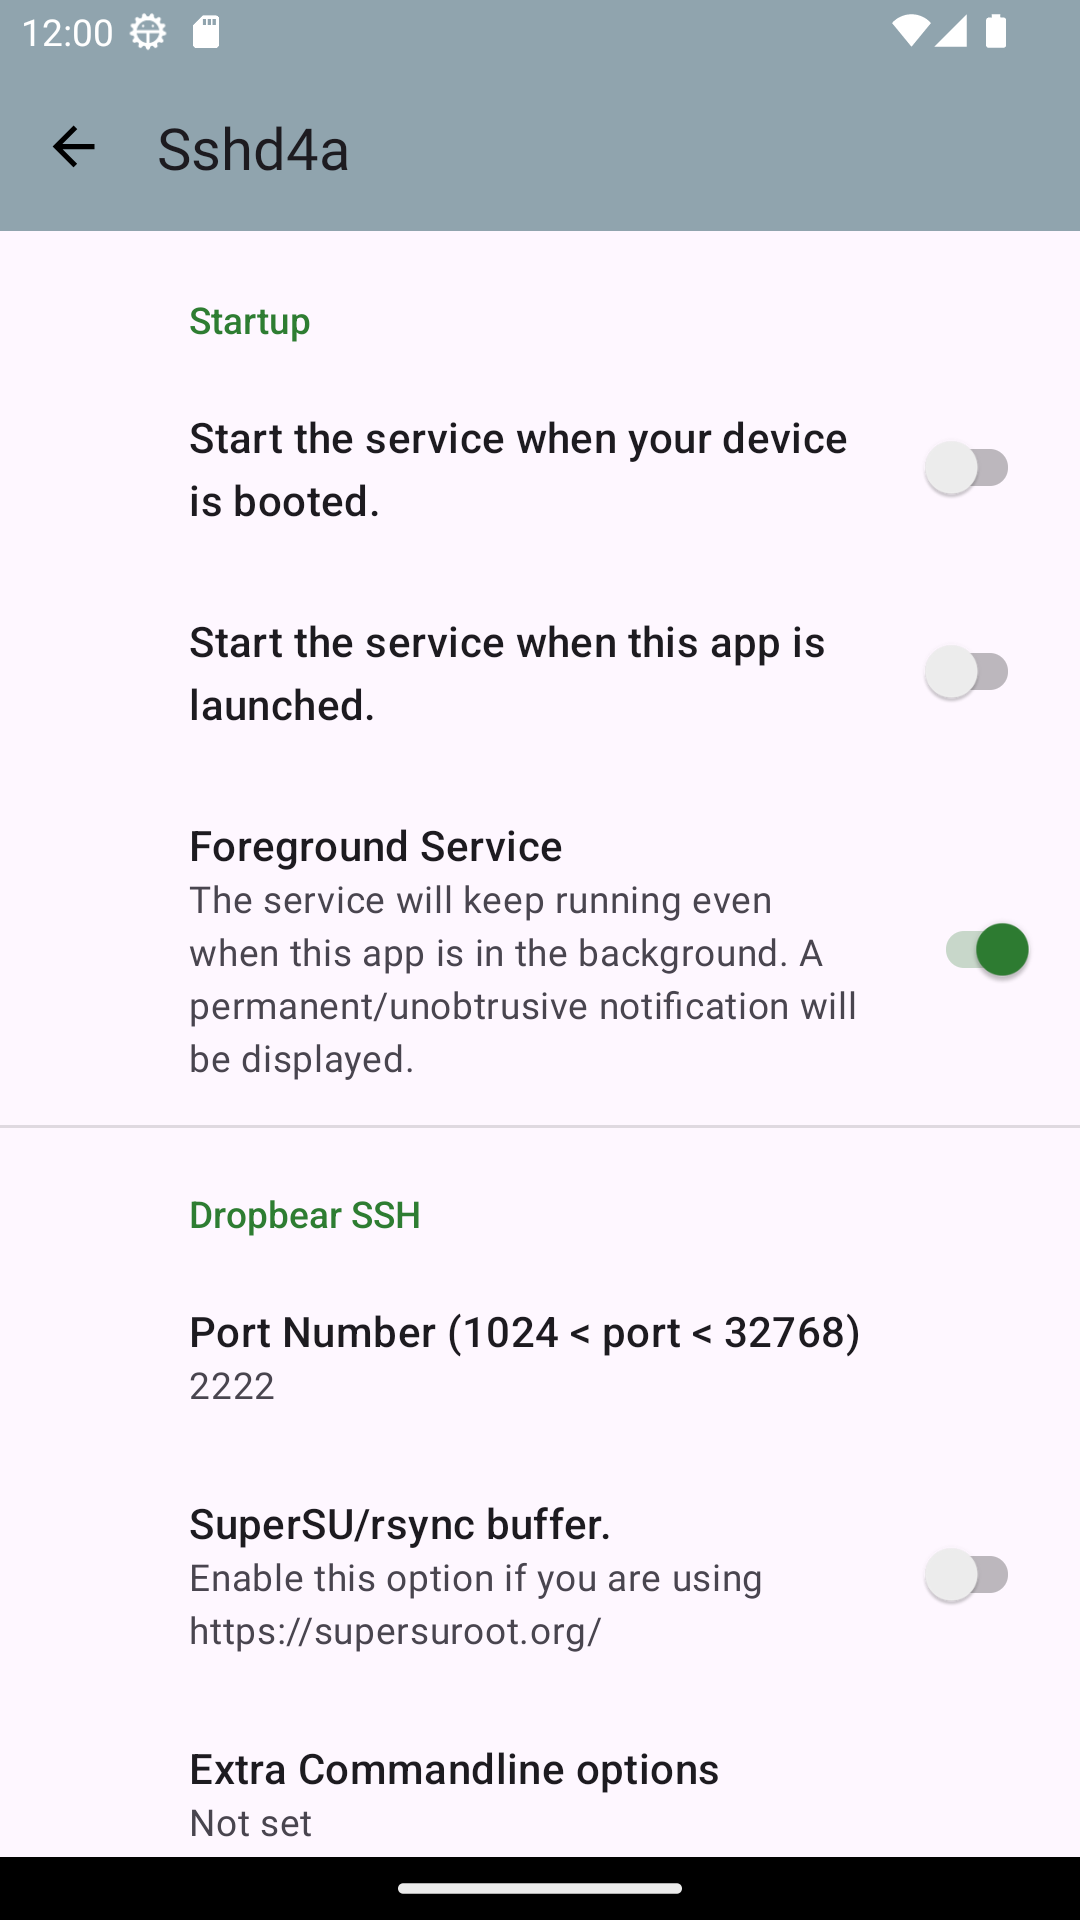
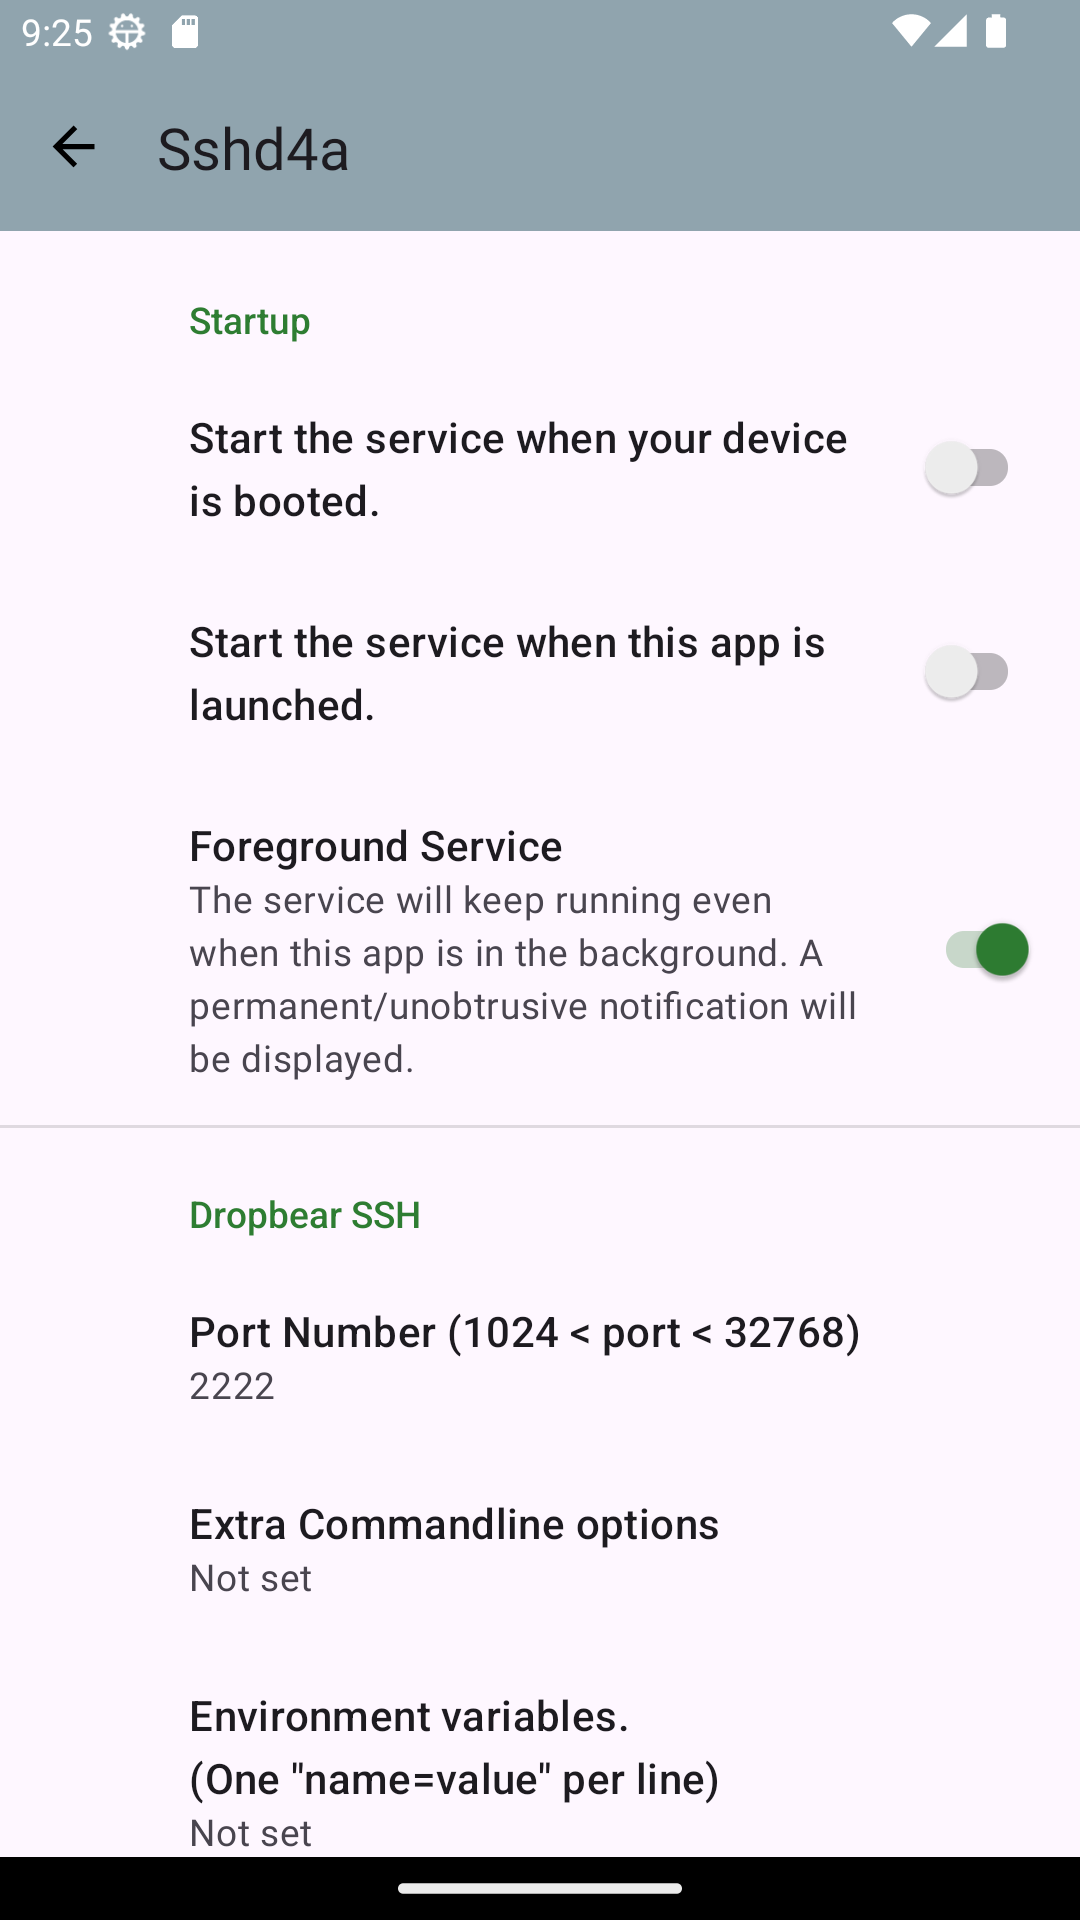
removed supersu support due to lack of a testing setup

Changed region(s): [[0.1833, 0.7812, 0.7028, 0.9688], [0.0306, 0.0, 0.2139, 0.0312], [0.8861, 0.8125, 0.9472, 0.8438]]

diff --git a/app/src/main/cpp/jni-dropbear.c b/app/src/main/cpp/jni-dropbear.c
@@ -33,9 +33,6 @@ const char *env_var_list = "";
 int enable_public_key_auth = JNI_TRUE;
 int enable_single_use_passwords = JNI_TRUE;
 
-/* enable the "buffersu" helper when the user has SuperSu installed. */
-int enable_super_su_buffering = JNI_FALSE;
-
 /*
  * Check if the given file exists and contains at least 'min_chars' characters.
  */
@@ -71,14 +68,8 @@ char *sshd4a_exe_to_lib(const char *cmd) {
         return t;
 
     } else if (cmd && !strncmp(cmd, "rsync ", 6)) {
-        char *t;
-        if (enable_super_su_buffering) {
-            t = m_malloc(strlen(lib_path) + 16 + strlen(cmd) - 6 + /* '\0' */ 1);
-            sprintf(t, "%s/libbuffersu.so %s", lib_path, cmd + 6);
-        } else {
-            t = m_malloc(strlen(lib_path) + 13 + strlen(cmd) - 6 + /* '\0' */ 1);
-            sprintf(t, "%s/librsync.so %s", lib_path, cmd + 6);
-        }
+        char *t = m_malloc(strlen(lib_path) + 13 + strlen(cmd) - 6 + /* '\0' */ 1);
+        sprintf(t, "%s/librsync.so %s", lib_path, cmd + 6);
         return t;
 
     } else if (cmd && !strncmp(cmd, "sftp-server", 11)) {
@@ -133,8 +124,6 @@ void sshd4a_set_env() {
         }
     }
 
-    /* make available to buffersu. */
-    setenv(SSHD4A_LIB_DIR, lib_path, /*overwrite=*/ 1);
     /* make available to rsync */
     setenv(SSHD4A_CONF_DIR, conf_path, /*overwrite=*/ 1);
 }
@@ -247,7 +236,6 @@ const char *from_java_string(JNIEnv *env, jstring str) {
  * @param j_env_var_list             list of environment variables
  * @param j_enablePublickeyAuth      enable public key logins
  * @param j_enableSingleUsePasswords enable generating single-use passwords
- * @param j_enableSuperSuBuffering   enable support for "SuperSu" rsync buffering
  *
  * @return On success, the PID of the dropbear process.  On failure, -1.
  */
@@ -262,8 +250,7 @@ Java_com_hardbacknutter_sshd_SshdService_start_1sshd(
         jstring j_shell_exe,
         jstring j_env_var_list,
         jboolean j_enablePublickeyAuth,
-        jboolean j_enableSingleUsePasswords,
-        jboolean j_enableSuperSuBuffering) {
+        jboolean j_enableSingleUsePasswords) {
 
     pid_t pid = fork();
     if (pid == 0) {
@@ -279,7 +266,6 @@ Java_com_hardbacknutter_sshd_SshdService_start_1sshd(
 
         enable_public_key_auth = j_enablePublickeyAuth;
         enable_single_use_passwords = j_enableSingleUsePasswords;
-        enable_super_su_buffering = j_enableSuperSuBuffering;
 
         const jsize argc = (*env)->GetArrayLength(env, j_dropbear_args);
         const char *argv[argc];

diff --git a/app/src/main/java/com/hardbacknutter/sshd/SshdService.java b/app/src/main/java/com/hardbacknutter/sshd/SshdService.java
@@ -211,8 +211,7 @@ public class SshdService
                                   @NonNull String shell,
                                   @NonNull String env,
                                   boolean enablePublickeyAuth,
-                                  boolean enableSingleUsePasswords,
-                                  boolean enableSuperSuBuffering);
+                                  boolean enableSingleUsePasswords);
 
     private native void kill(int pid);
 
@@ -278,14 +277,11 @@ public class SshdService
                 pref.getBoolean(Prefs.ENABLE_PUBLIC_KEY_LOGIN, true);
         final boolean enableSingleUsePasswords =
                 pref.getBoolean(Prefs.ENABLE_SINGLE_USE_PASSWORDS, true);
-        final boolean enableSuperSuBuffering =
-                pref.getBoolean(Prefs.ENABLE_SUPER_SU_BUFFERING, false);
 
         final int pid = start_sshd(getApplicationInfo().nativeLibraryDir,
                                    args, confPath, homePath, shellCmd, env,
                                    enablePublickeyLogin,
-                                   enableSingleUsePasswords,
-                                   enableSuperSuBuffering);
+                                   enableSingleUsePasswords);
         if (BuildConfig.DEBUG) {
             Log.d(TAG + "|startSshd", "start_sshd=" + pid);
         }

diff --git a/app/src/main/java/com/hardbacknutter/sshd/Prefs.java b/app/src/main/java/com/hardbacknutter/sshd/Prefs.java
@@ -19,10 +19,6 @@ final class Prefs {
 
     static final String DROPBEAR_CMDLINE_OPTIONS = "dropbear.options";
 
-    /**
-     * <a href="https://supersuroot.org/">https://supersuroot.org/</a>
-     */
-    static final String ENABLE_SUPER_SU_BUFFERING = "rsyncbuffer";
     static final String UI_THEME = "ui.theme";
     static final String UI_NOTIFICATION_ASK_PERMISSION = "ui.notification.ask_permission";
 
